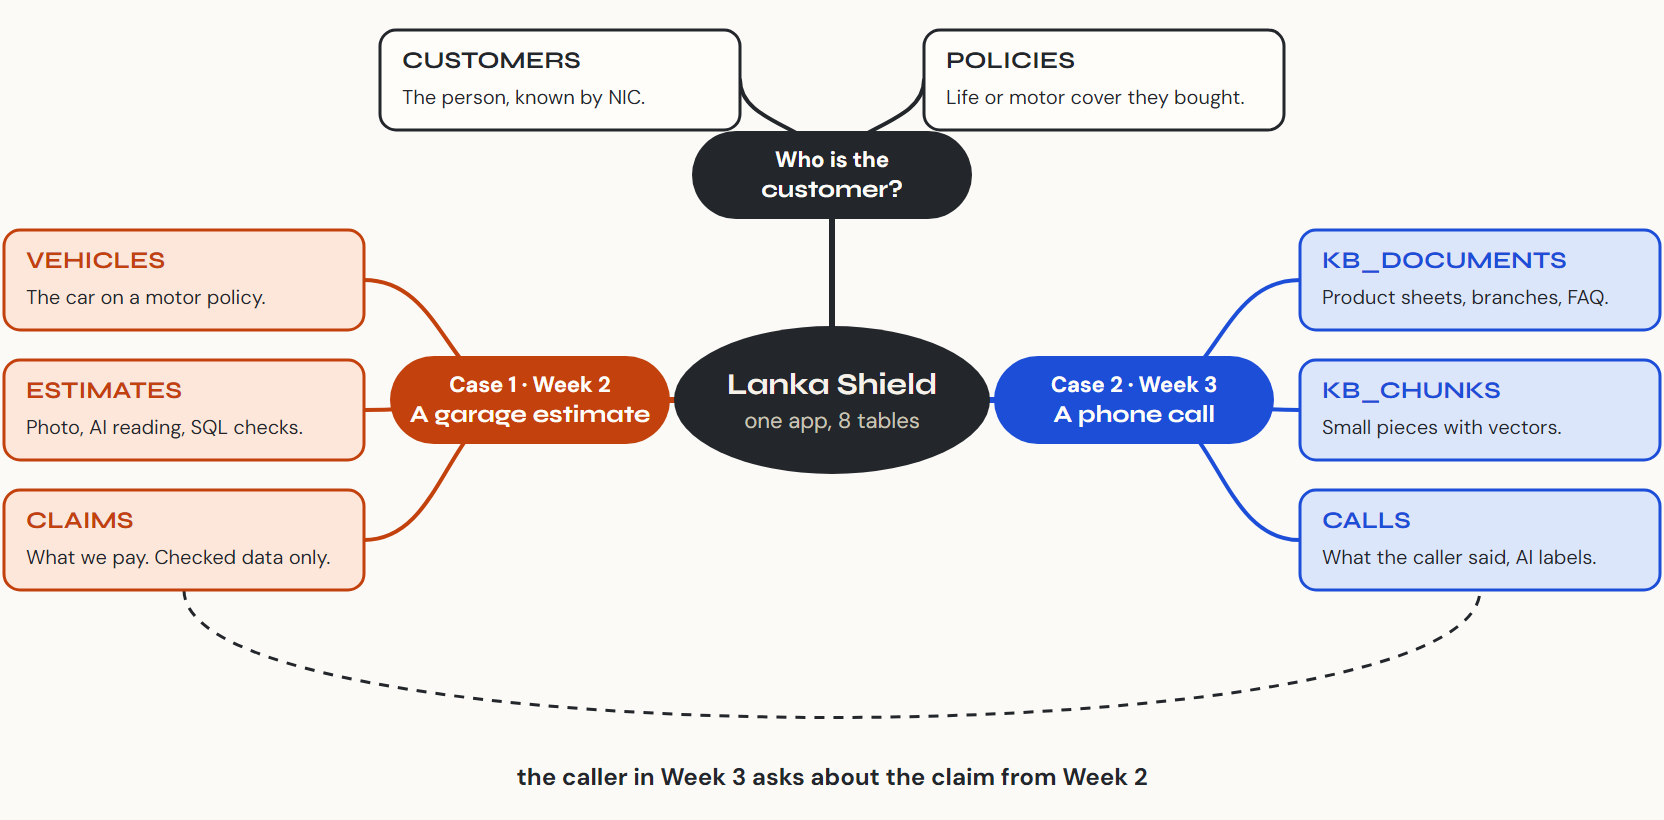
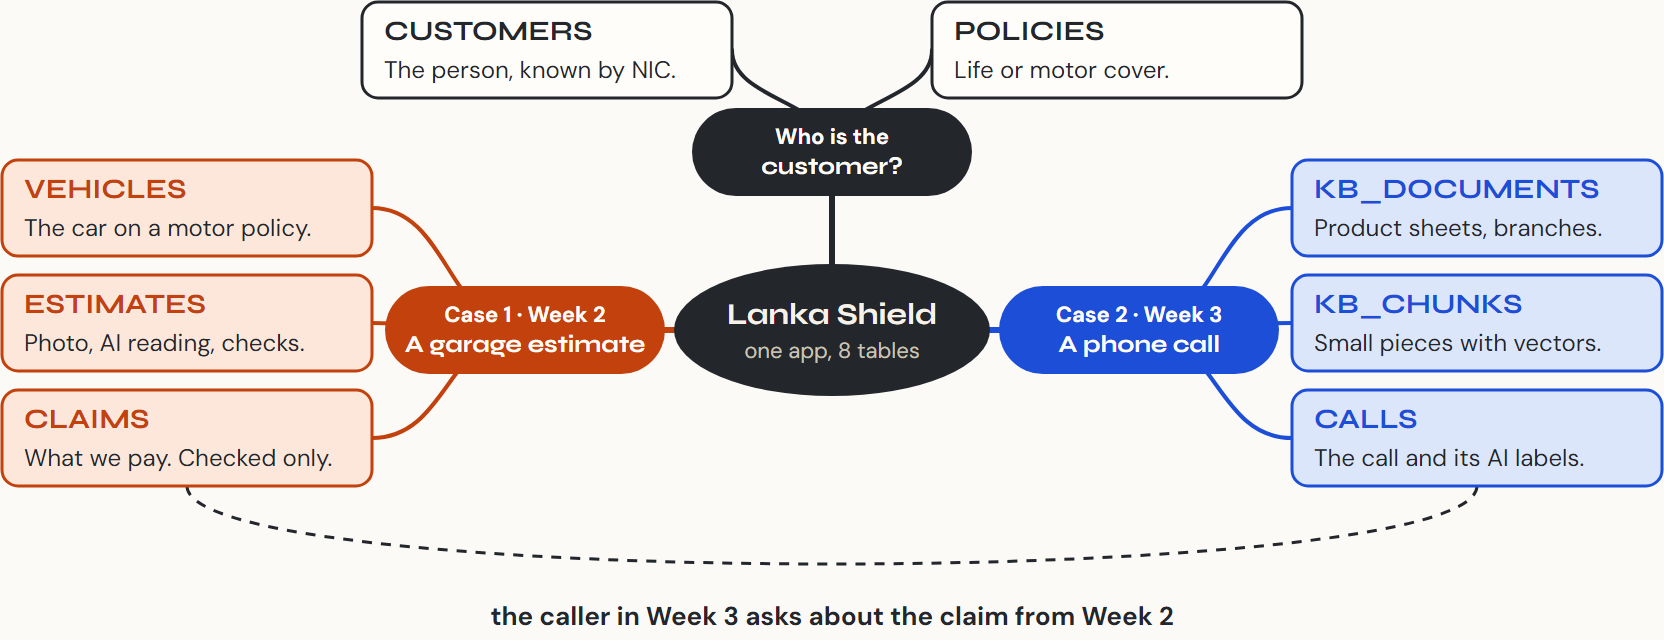
fix: make the mind map wide and short so its text is readable on a full slide

diff --git a/presentation/diagrams/make_mindmap.py b/presentation/diagrams/make_mindmap.py
@@ -9,30 +9,30 @@ they remember foreign keys. Same 8 tables as sql/00_schema.sql.
 import argparse, pathlib, subprocess, tempfile
 
 HERE = pathlib.Path(__file__).parent
-W, H = 1664, 820
+W, H = 1664, 640    # wide and short: it fills a slide at full width
 INK, MUTED, CARD = "#23262B", "#4B5058", "#FFFDF9"
 ORANGE, ORANGE_SOFT = "#C2410C", "#FCE7DA"
 BLUE, BLUE_SOFT = "#1D4ED8", "#DCE6FB"
-LW, LH = 360, 100   # leaf box size
+LW, LH = 370, 96    # leaf box size
 PILL_W = 280
 
-CENTER = (832, 400)
+CENTER = (832, 330)
 BRANCHES = {
     # key: (x, y, colour, soft, title lines)
-    "core":  (832, 175, INK, CARD, ["Who is the", "customer?"]),
-    "case1": (530, 400, ORANGE, ORANGE_SOFT, ["Case 1 · Week 2", "A garage estimate"]),
-    "case2": (1134, 400, BLUE, BLUE_SOFT, ["Case 2 · Week 3", "A phone call"]),
+    "core":  (832, 152, INK, CARD, ["Who is the", "customer?"]),
+    "case1": (525, 330, ORANGE, ORANGE_SOFT, ["Case 1 · Week 2", "A garage estimate"]),
+    "case2": (1139, 330, BLUE, BLUE_SOFT, ["Case 2 · Week 3", "A phone call"]),
 }
 LEAVES = [
     # (branch, x, y, table, hook)
-    ("core", 380, 30, "CUSTOMERS", "The person, known by NIC."),
-    ("core", 924, 30, "POLICIES", "Life or motor cover they bought."),
-    ("case1", 4, 230, "VEHICLES", "The car on a motor policy."),
-    ("case1", 4, 360, "ESTIMATES", "Photo, AI reading, SQL checks."),
-    ("case1", 4, 490, "CLAIMS", "What we pay. Checked data only."),
-    ("case2", 1300, 230, "KB_DOCUMENTS", "Product sheets, branches, FAQ."),
-    ("case2", 1300, 360, "KB_CHUNKS", "Small pieces with vectors."),
-    ("case2", 1300, 490, "CALLS", "What the caller said, AI labels."),
+    ("core", 362, 2, "CUSTOMERS", "The person, known by NIC."),
+    ("core", 932, 2, "POLICIES", "Life or motor cover."),
+    ("case1", 2, 160, "VEHICLES", "The car on a motor policy."),
+    ("case1", 2, 275, "ESTIMATES", "Photo, AI reading, checks."),
+    ("case1", 2, 390, "CLAIMS", "What we pay. Checked only."),
+    ("case2", 1292, 160, "KB_DOCUMENTS", "Product sheets, branches."),
+    ("case2", 1292, 275, "KB_CHUNKS", "Small pieces with vectors."),
+    ("case2", 1292, 390, "CALLS", "The call and its AI labels."),
 ]
 
 
@@ -62,11 +62,11 @@ def svg():
             tx, ty = (lx + LW, ly + LH / 2) if lx < bx else (lx, ly + LH / 2)
         o.append(curve(bx, by, tx, ty, col, 4))
     # The thread between the two cases: the call asks about the claim.
-    o.append(f"<path d='M{4 + LW / 2},{490 + LH} C{4 + LW / 2},760 {1300 + LW / 2},760 {1300 + LW / 2},{490 + LH}' fill='none' stroke='{INK}' stroke-width='3' stroke-dasharray='10 9'/>")
-    o.append(f"<text x='832' y='785' text-anchor='middle' font-family='DM Sans' font-weight='700' font-size='24' fill='{INK}'>"
+    o.append(f"<path d='M{2 + LW / 2},{390 + LH} C{2 + LW / 2},590 {1292 + LW / 2},590 {1292 + LW / 2},{390 + LH}' fill='none' stroke='{INK}' stroke-width='3' stroke-dasharray='10 9'/>")
+    o.append(f"<text x='832' y='625' text-anchor='middle' font-family='DM Sans' font-weight='700' font-size='26' fill='{INK}'>"
              "the caller in Week 3 asks about the claim from Week 2</text>")
     # Centre.
-    o.append(f"<ellipse cx='{cx}' cy='{cy}' rx='158' ry='74' fill='{INK}'/>")
+    o.append(f"<ellipse cx='{cx}' cy='{cy}' rx='158' ry='66' fill='{INK}'/>")
     o.append(f"<text x='{cx}' y='{cy - 6}' text-anchor='middle' font-family='Syne' font-weight='700' font-size='30' fill='#F6F2EA'>Lanka Shield</text>")
     o.append(f"<text x='{cx}' y='{cy + 28}' text-anchor='middle' font-family='DM Sans' font-size='22' fill='#C9C3B8'>one app, 8 tables</text>")
     # Branch nodes.
@@ -80,8 +80,8 @@ def svg():
     for br, lx, ly, table, hook in LEAVES:
         _, _, col, soft, _ = BRANCHES[br]
         o.append(f"<rect x='{lx}' y='{ly}' width='{LW}' height='{LH}' rx='16' fill='{soft}' stroke='{col}' stroke-width='3'/>")
-        o.append(f"<text x='{lx + 22}' y='{ly + 38}' font-family='Syne' font-weight='700' font-size='24' fill='{col}'>{table}</text>")
-        o.append(f"<text x='{lx + 22}' y='{ly + 74}' font-family='DM Sans' font-size='20' fill='{INK}'>{esc(hook)}</text>")
+        o.append(f"<text x='{lx + 22}' y='{ly + 38}' font-family='Syne' font-weight='700' font-size='28' fill='{col}'>{table}</text>")
+        o.append(f"<text x='{lx + 22}' y='{ly + 76}' font-family='DM Sans' font-size='24' fill='{INK}'>{esc(hook)}</text>")
     o.append("</svg>")
     return "".join(o)
 
